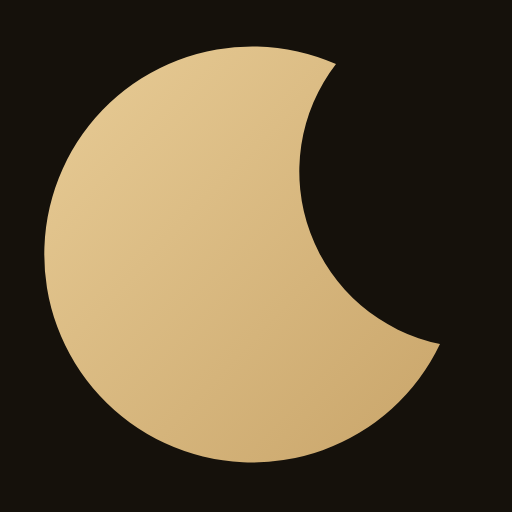
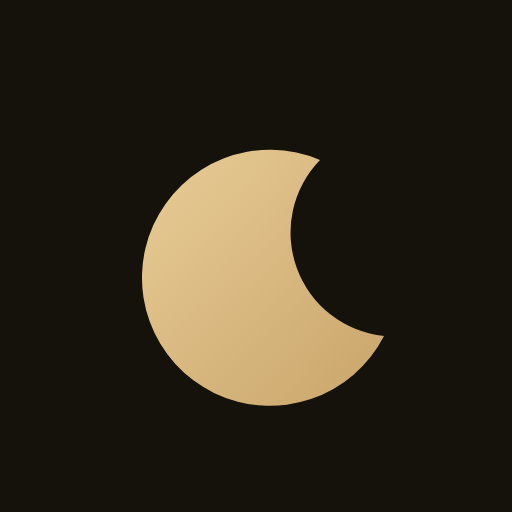
Desktop settings scroll again; the crescent slims back to the original cut
sm:bottom-auto removed the panel's bottom constraint, so on desktop it grew
as tall as its content and overflow-y-auto never engaged — anything below
the fold was unreachable. The panel is pinned top and bottom again.

The mark returns to the original favicon's slimmer crescent geometry,
keeping the warm gold — header logo, favicon, and app icons all match.

Changed region(s): [[0.0625, 0.0625, 0.875, 0.9062]]

diff --git a/src/library/Shelf.tsx b/src/library/Shelf.tsx
@@ -321,12 +321,9 @@ export function Shelf({ onOpen }: ShelfProps) {
       )}
       <header className="safe-top sticky top-0 z-20 border-b border-white/[0.06] bg-[#1c1610]/70 backdrop-blur-xl">
         <div className="mx-auto flex w-full max-w-[1180px] items-center gap-4 px-5 py-4 sm:px-8">
-          {/* The crescent — the mark. Two circles, the night eats the second. */}
-          <svg viewBox="0 0 32 32" className="h-[30px] w-[30px] flex-none" aria-hidden>
-            <path
-              d="M21 4a13 13 0 1 0 6.5 17.5A11 11 0 0 1 21 4z"
-              fill="url(#moongrad)"
-            />
+          {/* The crescent — the mark (the original favicon's slim moon, in gold). */}
+          <svg viewBox="0 0 64 64" className="h-[30px] w-[30px] flex-none" aria-hidden>
+            <path d="M40 20a16 16 0 1 0 8 22 13 13 0 0 1-8-22z" fill="url(#moongrad)" />
             <defs>
               <linearGradient id="moongrad" x1="0" y1="0" x2="1" y2="1">
                 <stop offset="0" stopColor="#e8cc96" />

diff --git a/src/reader/Reader.tsx b/src/reader/Reader.tsx
@@ -2212,7 +2212,7 @@ export function Reader({ bookId, onShelf }: ReaderProps) {
           />
           {/* Phone: a Books-style bottom sheet that takes only the height it
               needs. Desktop (sm+): the familiar right-side panel. */}
-          <div className="anim-panel safe-bottom fixed inset-x-0 bottom-0 z-40 max-h-[76dvh] overflow-y-auto rounded-t-[26px] border-t border-line/70 bg-panel/95 p-5 font-sans text-ink-body shadow-[0_-12px_48px_rgba(0,0,0,0.45)] backdrop-blur-2xl sm:safe-top sm:inset-y-0 sm:bottom-auto sm:left-auto sm:right-0 sm:max-h-none sm:w-[400px] sm:rounded-none sm:border-l sm:border-t-0 sm:pb-10 sm:shadow-[-12px_0_48px_rgba(0,0,0,0.4)]">
+          <div className="anim-panel safe-bottom fixed inset-x-0 bottom-0 z-40 max-h-[76dvh] overflow-y-auto rounded-t-[26px] border-t border-line/70 bg-panel/95 p-5 font-sans text-ink-body shadow-[0_-12px_48px_rgba(0,0,0,0.45)] backdrop-blur-2xl sm:safe-top sm:top-0 sm:left-auto sm:right-0 sm:max-h-none sm:w-[400px] sm:rounded-none sm:border-l sm:border-t-0 sm:pb-10 sm:shadow-[-12px_0_48px_rgba(0,0,0,0.4)]">
             <div className="mb-6 flex items-center justify-between">
               <div className="font-serif text-xl text-ink-bright">Reading settings</div>
               <button